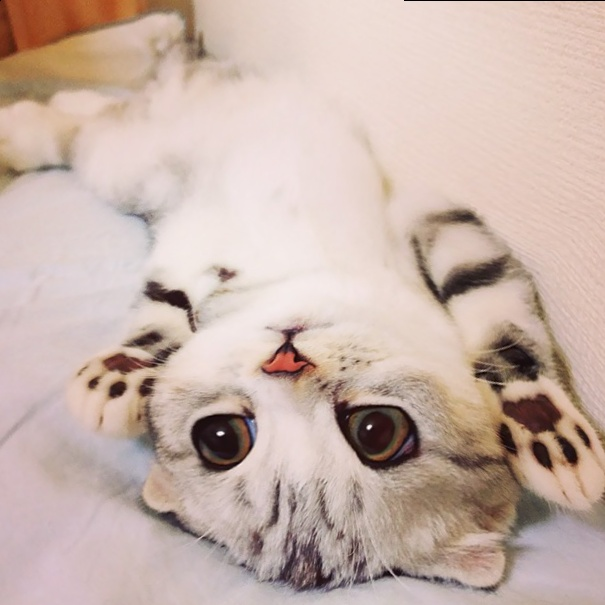
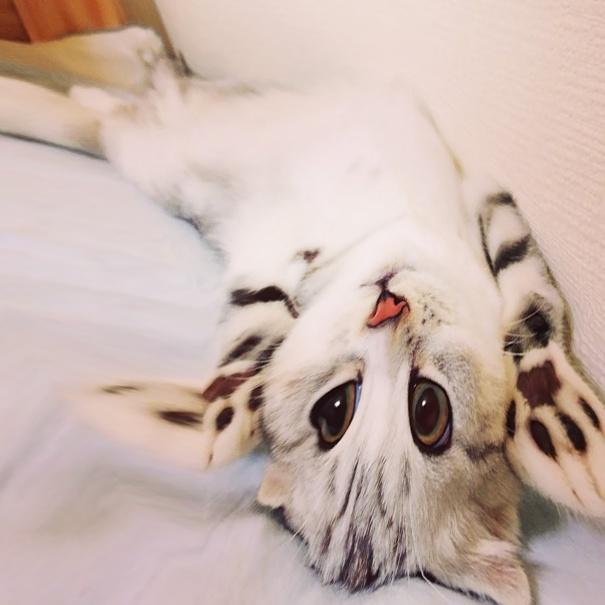
update

diff --git a/index.html b/index.html
@@ -2202,6 +2202,70 @@ A huge list of many types of data augmentations techniques used for deep learnin
 
 <h2>Spatial-level transforms</h2>
 
+<h3>Affine</h3>
+<ul class="augmentations">
+    <!----------------------------------------------------------------------------------------------------------------->
+    <!-- Affine -->
+    <!----------------------------------------------------------------------------------------------------------------->
+    <li class="item_list">
+        <button onclick="show('aug_affine')">Affine</button>
+        <div id="aug_affine" style="display: none;">
+            Augmenter to apply affine transformations to images.
+            Source: <a target="_blank" 
+                       href="https://imgaug.readthedocs.io/en/latest/source/overview/geometric.html#affine">Imgaug</a><br>
+            <figure>
+                <img src="images/kitty.jpg"> 
+                <figcaption>Original</figcaption>
+            </figure> 
+            <figure>
+                <img src="images/kitty_affine.jpg">
+                <figcaption>Augmentation</figcaption>
+            </figure> 
+        </div>
+    </li>
+    <!----------------------------------------------------------------------------------------------------------------->
+    <!-- Piecewise Affine -->
+    <!----------------------------------------------------------------------------------------------------------------->
+    <li class="item_list">
+        <button onclick="show('aug_piecewise_affine')">Piecewise Affine</button>
+        <div id="aug_piecewise_affine" style="display: none;">
+            Apply affine transformations that differ between local neighbourhoods.
+            Source: <a target="_blank" 
+                       href="https://imgaug.readthedocs.io/en/latest/source/overview/geometric.html#piecewiseaffine">Imgaug</a><br>
+            <figure>
+                <img src="images/kitty.jpg"> 
+                <figcaption>Original</figcaption>
+            </figure> 
+            <figure>
+                <img src="images/kitty_piecewise_affine.jpg">
+                <figcaption>Augmentation</figcaption>
+            </figure> 
+        </div>
+    </li>
+    <!----------------------------------------------------------------------------------------------------------------->
+    <!-- Shift Scale Rotate -->
+    <!----------------------------------------------------------------------------------------------------------------->
+    <li class="item_list">
+        <button onclick="show('aug_shift_scale_rotate')">Shift Scale Rotate</button>
+        <div id="aug_shift_scale_rotate" style="display: none;">
+            Randomly apply affine transforms: translate, scale and rotate the input.
+            Source: <a target="_blank" 
+                       href="https://albumentations.ai/docs/api_reference/augmentations/transforms/#albumentations.augmentations.transforms.ShiftScaleRotate">Albumentations</a><br>
+            <figure>
+                <img src="images/kitty.jpg"> 
+                <figcaption>Original</figcaption>
+            </figure> 
+            <figure>
+                <img src="images/kitty_shift_scale_rotate.jpg">
+                <figcaption>Augmentation</figcaption>
+            </figure> 
+        </div>
+    </li>
+    <!----------------------------------------------------------------------------------------------------------------->
+</ul>
+
+<!--------------------------------------------------------------------------------------------------------------------->
+
 <h3>Crop</h3>
 <ul class="augmentations">
     <!----------------------------------------------------------------------------------------------------------------->
@@ -2853,26 +2917,7 @@ A huge list of many types of data augmentations techniques used for deep learnin
         </div>
     </li>
     <!----------------------------------------------------------------------------------------------------------------->
-    <!-- Shift Scale Rotate -->
-    <!----------------------------------------------------------------------------------------------------------------->
-    <li class="item_list">
-        <button onclick="show('aug_shift_scale_rotate')">Shift Scale Rotate</button>
-        <div id="aug_shift_scale_rotate" style="display: none;">
-            Randomly apply affine transforms: translate, scale and rotate the input.
-            Source: <a target="_blank" 
-                       href="https://albumentations.ai/docs/api_reference/augmentations/transforms/#albumentations.augmentations.transforms.ShiftScaleRotate">Albumentations</a><br>
-            <figure>
-                <img src="images/kitty.jpg"> 
-                <figcaption>Original</figcaption>
-            </figure> 
-            <figure>
-                <img src="images/kitty_shift_scale_rotate.jpg">
-                <figcaption>Augmentation</figcaption>
-            </figure> 
-        </div>
-    </li>
-    <!----------------------------------------------------------------------------------------------------------------->
-    <!-- Shift Scale Rotate -->
+    <!-- Transpose -->
     <!----------------------------------------------------------------------------------------------------------------->
     <li class="item_list">
         <button onclick="show('aug_transpose')">Transpose</button>
@@ -2992,37 +3037,7 @@ A huge list of many types of data augmentations techniques used for deep learnin
         </div>
     </li>
 
-    <li class="item_list">
-        <button onclick="show('aug41')">IAAAffine</button>
-        <div id="aug41" style="display: none;">
-            Place a regular grid of points on the input and randomly move the neighbourhood of these point around via affine transformations.
-            Source: <a target="_blank" href="https://albumentations.ai/docs/api_reference/imgaug/transforms/#albumentations.imgaug.transforms.IAAAffine">Albumentations</a><br>
-            <figure>
-                <img src="images/kitty.jpg"> 
-                <figcaption>Original</figcaption>
-            </figure> 
-            <figure>
-                <img src="images/kitty_iaaaffine.jpg">
-                <figcaption>Augmentation</figcaption>
-            </figure> 
-        </div>
-    </li>
 
-    <li class="item_list">
-        <button onclick="show('aug43')">IAAPiecewiseAffine</button>
-        <div id="aug43" style="display: none;">
-            Place a regular grid of points on the input and randomly move the neighbourhood of these point around via affine transformations.
-            Source: <a target="_blank" href="https://albumentations.ai/docs/api_reference/imgaug/transforms/#albumentations.imgaug.transforms.IAAPiecewiseAffine">Albumentations</a><br>
-            <figure>
-                <img src="images/kitty.jpg"> 
-                <figcaption>Original</figcaption>
-            </figure> 
-            <figure>
-                <img src="images/kitty_piecewise_affine.jpg">
-                <figcaption>Augmentation</figcaption>
-            </figure> 
-        </div>
-    </li>
     
     <li class="item_list">
         <button onclick="show('aug45')">OpticalDistortion</button>

diff --git a/images/augmentation.py b/images/augmentation.py
@@ -510,6 +510,21 @@ if __name__ == '__main__':
 
     # Spatial Level Transforms
 
+    ## Affine
+
+    elif augmentation == 'affine':
+        transform = iaa.Affine(scale={"x": (0.5, 1.5), "y": (0.5, 1.5)})
+        transformed_image = transform(image=image)
+
+    elif augmentation == 'piecewise_affine':
+        transform = iaa.PiecewiseAffine(scale=(0.05, 0.09))
+        transformed_image = transform(image=image)
+
+    elif augmentation == 'shift_scale_rotate':
+        transform = ShiftScaleRotate(always_apply=True, shift_limit=0.1, 
+                                                        scale_limit=0.5)
+        transformed_image = transform(image=image)['image']
+
     ## Crop
 
     elif augmentation == 'crop':
@@ -656,11 +671,6 @@ if __name__ == '__main__':
         transform = RandomRotate90(always_apply=True)
         transformed_image = transform(image=image)['image']
    
-    elif augmentation == 'shift_scale_rotate':
-        transform = ShiftScaleRotate(always_apply=True, shift_limit=0.1, 
-                                                        scale_limit=0.5)
-        transformed_image = transform(image=image)['image']
-  
     elif augmentation == 'transpose':
         transform = Transpose(always_apply=True)
         transformed_image = transform(image=image)['image']
@@ -703,10 +713,6 @@ if __name__ == '__main__':
 
     elif augmentation == 'grid_dropout':
         transform = GridDropout(always_apply=True)
-        transformed_image = transform(image=image)['image']
-
-    elif augmentation == 'iaaaffine':
-        transform = IAAAffine(always_apply=True, p=1.0, rotate=180, shear=50)
         transformed_image = transform(image=image)['image']
 
     elif augmentation == 'optical_distortion':
